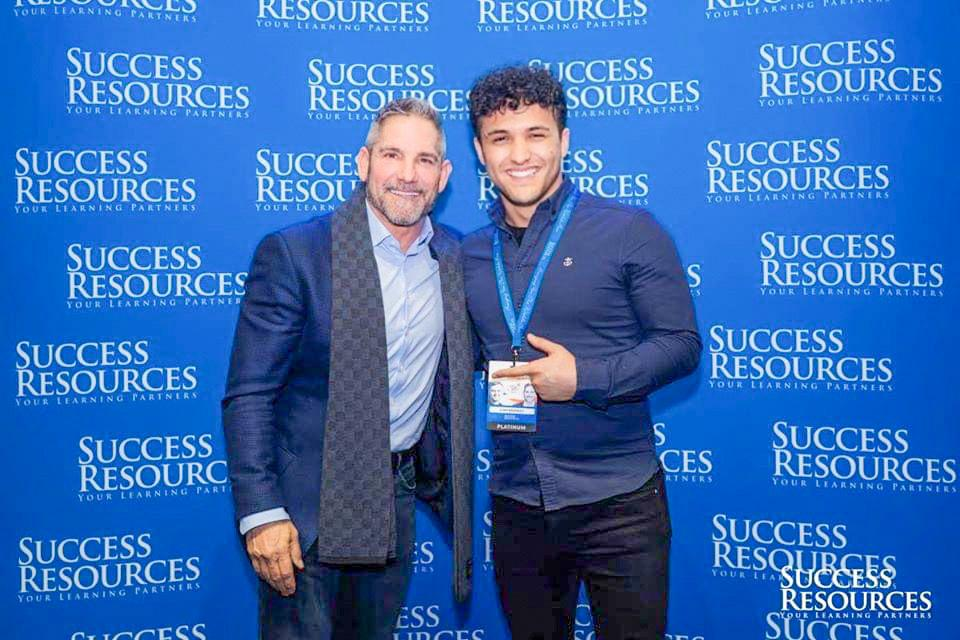
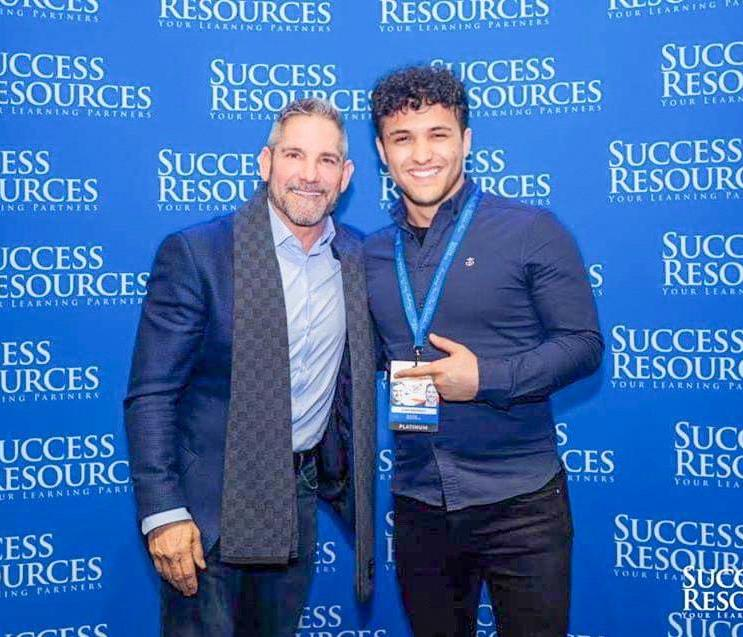
iteration of fixes

diff --git a/assets/css/style.css b/assets/css/style.css
@@ -76,7 +76,7 @@ h6 {
 #header {
   transition: all 0.5s;
   z-index: 997;
-  padding: 20px 0;
+  padding: 30px 0;
   background: #fff;
 }
 
@@ -137,7 +137,8 @@ h6 {
   align-items: center;
   justify-content: space-between;
   padding: 10px 0 10px 30px;
-  font-size: 15px;
+  font-size: 20px;
+  text-transform: uppercase;
   color: #434175;
   white-space: nowrap;
   transition: 0.3s;
@@ -440,6 +441,7 @@ h6 {
   border: 2px solid #5a5af3;
   margin-right: 10px;
   font-weight: bold;
+  font-size: 20px;
   text-transform: uppercase;
 }
 
@@ -456,19 +458,6 @@ h6 {
 .btn-get-quote:hover {
   background: #5a5af3;
   color: #fff;
-}
-
-.background-people {
-  position: absolute;
-  z-index: 1;
-  width: 100%;
-  height: 100vh;
-  top: 0;
-  bottom: 0;
-  background-image: url("../img/backgroundpeople.jpg");
-  background-size: cover;
-  background-repeat: no-repeat;
-  padding: 0;
 }
 
 .background-course-logo {
@@ -500,7 +489,7 @@ h6 {
   padding: 0;
 }
 
-.smaller-background-people {
+.background-people {
   position: fixed;
   z-index: -2;
   width: 100%;
@@ -508,23 +497,13 @@ h6 {
   top: 0;
   bottom: 0;
   background-image: url("../img/backgroundpeople.JPG");
-  background-size: cover;
+  background-size: contain;
+  background-position-y: 10vh;
   background-repeat: repeat-y;
   padding: 0;
 }
 
 .background-people-shadow {
-  position: absolute;
-  width: 100%;
-  z-index: 2;
-  top: 0;
-  bottom: 0;
-  background-color: #000;
-  opacity: 0.8;
-  height: 100vh;
-}
-
-.smaller-background-people-shadow {
   position: fixed;
   width: 100%;
   z-index: -1;
@@ -671,33 +650,20 @@ section {
 }
 
 /*--------------------------------------------------------------
-# About
+# Founder
 --------------------------------------------------------------*/
-/* .about .content h2 {
-  font-weight: 700;
-  font-size: 44px;
-  line-height: 50px;
-  margin-bottom: 20px;
-  color: #434175;
-} */
 
-.about .content h3 {
-  font-weight: 500;
-  line-height: 32px;
-  font-size: 24px;
-}
-
-.about .content ul {
+.founder .content ul {
   list-style: none;
   padding: 0;
 }
 
-.about .content ul li {
+.founder .content ul li {
   padding: 10px 0 0 28px;
   position: relative;
 }
 
-.about .content ul i {
+.founder .content ul i {
   left: 0;
   top: 7px;
   position: absolute;
@@ -705,7 +671,7 @@ section {
   color: #5a5af3;
 }
 
-.about .content p:last-child {
+.founder .content p:last-child {
   margin-bottom: 0;
 }
 
@@ -910,14 +876,7 @@ section {
   fill: #11dbcf;
 }
 
-/*--------------------------------------------------------------
-# Features
---------------------------------------------------------------*/
-.features {
-  padding-top: 0;
-}
-
-.features .icon-box {
+.icon-box {
   display: flex;
   align-items: center;
   padding: 20px;
@@ -925,13 +884,13 @@ section {
   box-shadow: 0px 2px 15px rgba(0, 0, 0, 0.1);
 }
 
-.features .icon-box i {
+.icon-box i {
   font-size: 32px;
   padding-right: 10px;
   line-height: 1;
 }
 
-.features .icon-box h3 {
+.icon-box h3 {
   font-weight: 700;
   margin: 0;
   padding: 0;
@@ -939,12 +898,12 @@ section {
   font-size: 16px;
 }
 
-.features .icon-box h3 a {
+.icon-box h3 a {
   color: #434175;
   transition: ease-in-out 0.3s;
 }
 
-.features .icon-box:hover h3 a {
+.icon-box:hover h3 a {
   color: #5a5af3;
 }
 
@@ -1849,4 +1808,19 @@ section {
   background-position: center;
   height: 5vh;
   width: 100%;
+}
+
+.founder-photo {
+  background-image: url(../img/founder.jpeg);
+  width: 100%;
+  height: 75vh;
+  background-repeat: no-repeat;
+  background-position: top;
+  background-size: cover;
+}
+
+.seen {
+  text-transform: uppercase;
+  font-size: 1rem;
+  font-weight: 700;
 }

diff --git a/courses.html b/courses.html
@@ -62,8 +62,8 @@
   </header><!-- End Header -->
 
   <main id="main" class="main">
-    <div class="smaller-background-people"></div>
-    <div class="smaller-background-people-shadow"></div>
+    <div class="background-people"></div>
+    <div class="background-people-shadow"></div>
     <!-- ======= Team Section ======= -->
     <section class="hero d-flex align-items-center">
       <div class="container-fluid">
@@ -113,7 +113,7 @@
       </div>
     </section><!-- End Pricing Section -->
     <!-- ======= About Section ======= -->
-    <section id="about" class="about f-background">
+    <section id="founder" class="founder f-background">
       <div class="container">
 
         <div class="row content">
@@ -150,9 +150,6 @@
               monetisation strategy. I understand the feeling of being stuck and disheartened, but I also know the
               incredible potential that lies in selling digital products to your audience.
             </p>
-            <div class="container d-flex align-items-center justify-content-center mt-5">
-              <a href="bookacall.html" class="btn-get-started">Apply to accelerator</a>
-            </div>
           </div>
 
           <div class="col-lg-7 col-md-7 portfolio-item">
@@ -166,7 +163,10 @@
               <img src="assets/img/socialresult.jpeg" class="img-fluid" alt="">
             </div>
           </div>
-
+          
+          <div class="container d-flex align-items-center justify-content-center mt-5">
+            <a href="bookacall.html" target="_blank" class="btn-get-started">Apply to accelerator</a>
+          </div>
         </div>
       </div>
     </section><!-- End About Section -->
@@ -335,7 +335,7 @@
 
     </section><!-- End Frequently Asked Questions Section -->
 
-    <section id="about" class="about section-bg">
+    <section id="founder" class="founder section-bg">
       <div class="container">
 
         <div class="section-title">
@@ -364,7 +364,7 @@
       </div>
     </section><!-- End Frequently Asked Questions Section -->
 
-    <section id="about" class="about f-background">
+    <section id="founder" class="founder f-background">
       <div class="container">
         <div class="row launchpad">
           <div class="col-lg-6 col-md-6 d-flex align-items-stretch">
@@ -554,7 +554,7 @@
       </div>
     </section><!-- End Frequently Asked Questions Section -->
 
-    <section id="about" class="about f-background">
+    <section id="founder" class="founder f-background">
       <div class="container">
 
         <div class="section-title">

diff --git a/index.html b/index.html
@@ -74,17 +74,17 @@
   </section><!-- End Hero -->
 
   <main id="main">
-    <!-- ======= About Section ======= -->
-    <section id="about" class="about f-background">
+    <!-- ======= Founder Section ======= -->
+    <section id="founder" class="founder f-background">
       <div class="container">
         <div class="row content">
           <div class="section-title">
             <h2>Founder of Kynfluence</h2>
           </div>
-          <div class="col-lg-6">
-            <img src="assets/img/founder.jpeg" class="rounded float-start w-100" />
+          <div class="col-lg-7">
+            <div class="founder-photo"></div>
           </div>
-          <div class="col-lg-6 pt-4 pt-lg-0 spacios-text">
+          <div class="col-lg-5 pt-4 pt-lg-0 spacios-text">
             <p>
               Hey, I'm Bilal, founder of Kynfluence. I understand the challenges content creators face - frustratingly
               limited brand partnerships, underwhelming merchandise sales, and the seemingly endless battle for <b>ad
@@ -106,17 +106,9 @@
                 Jason Capital</b>, leading growth at a Series A eCommerce start-up, and professional stints at Google, I
               have the expertise to help you achieve financial independence and live life on your own terms.
             </p>
-          </div>
-        </div>
-      </div>
-    </section><!-- End About Section -->
-    <!-- ======= Features Section ======= -->
-    <section id="features" class="features">
-      <div class="container">
-
-        <div class="row justify-content-end">
-          <div class="col-lg-6 col-md-6">
+            <h3 class="seen">As Seen on:</h3>
             <div class="icon-box">
+              <br/>
               <div class="google-logo founderlogo"></div>
               <div class="ucl-logo founderlogo"></div>
               <div class="medium-logo founderlogo"></div>
@@ -124,12 +116,10 @@
             </div>
           </div>
         </div>
-
-      </div>
-    </section><!-- End Features Section -->
+    </section><!-- End About Section -->
 
     <!-- ======= About Section ======= -->
-    <section id="about" class="about section-bg">
+    <section id="founder" class="founder section-bg">
       <div class="container">
         <div class="row content">
           <div class="section-title">
